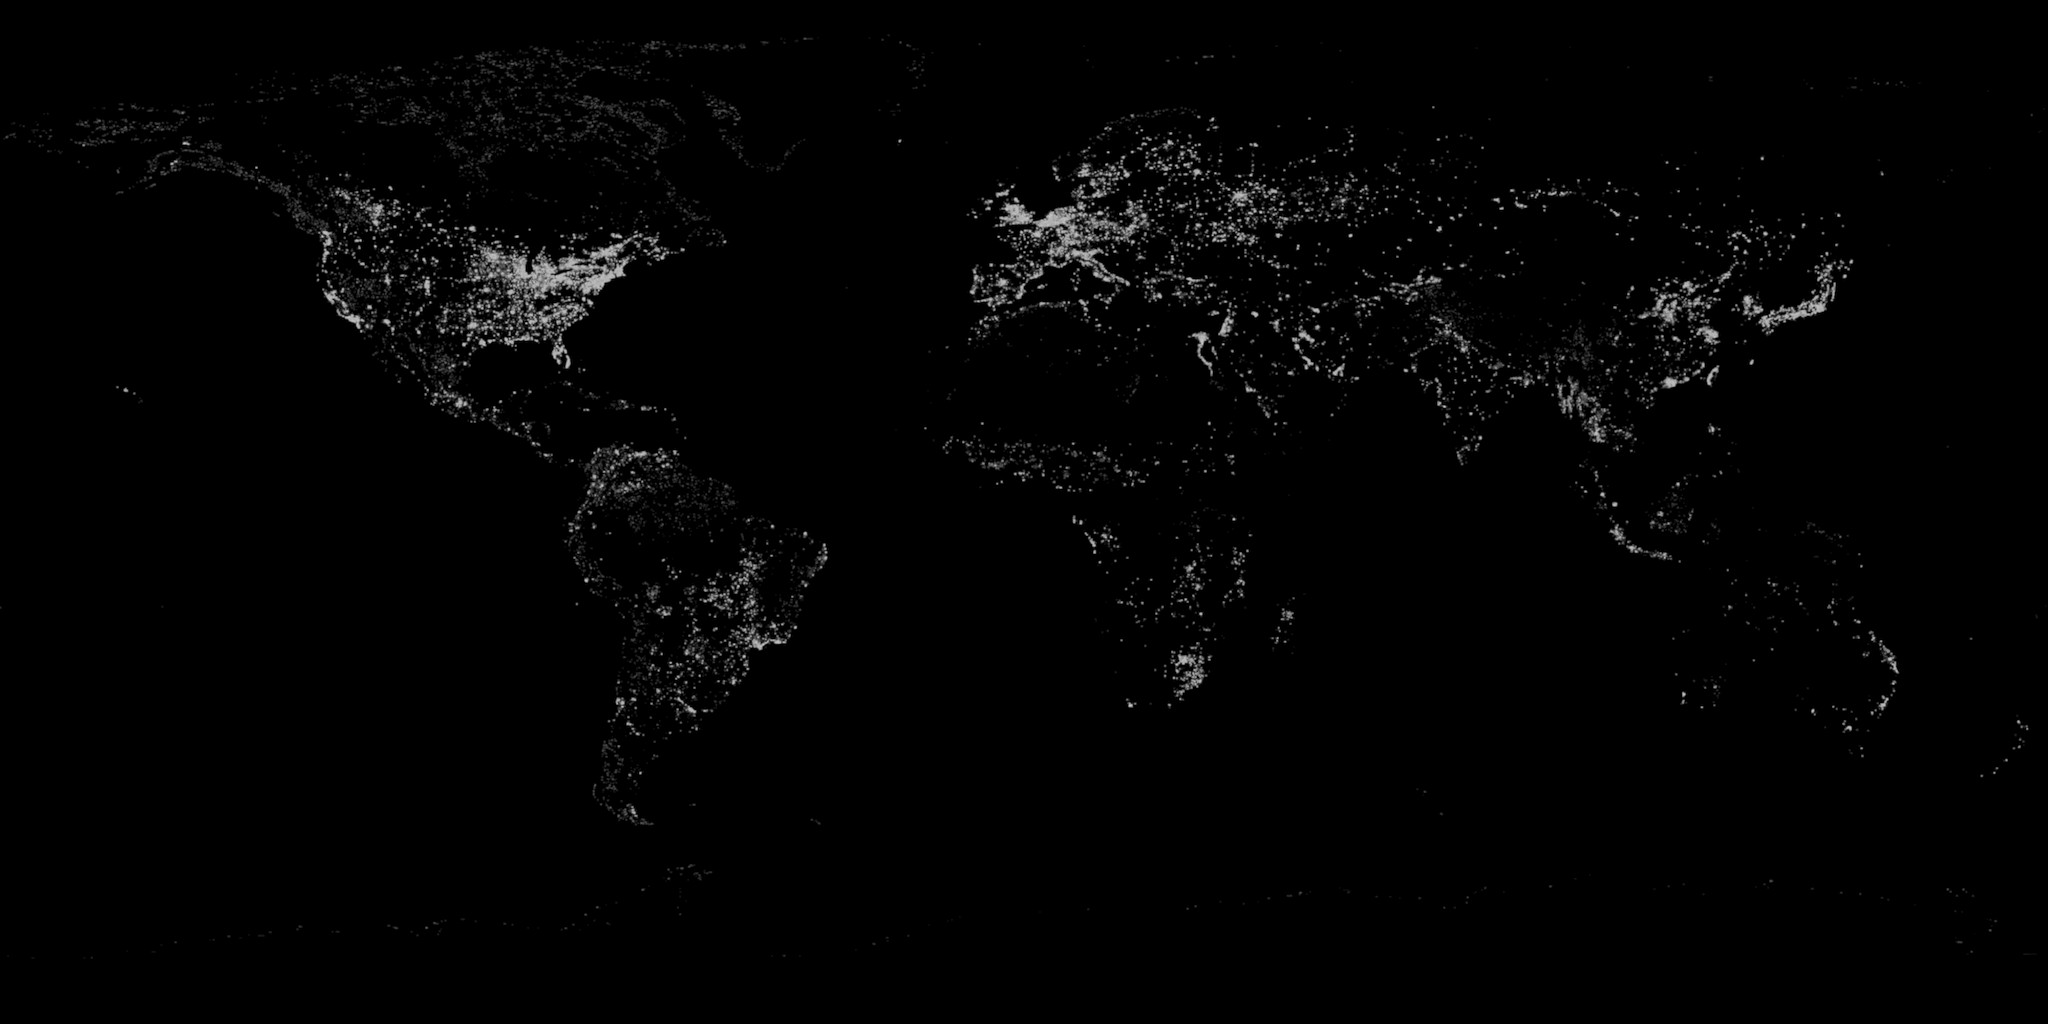
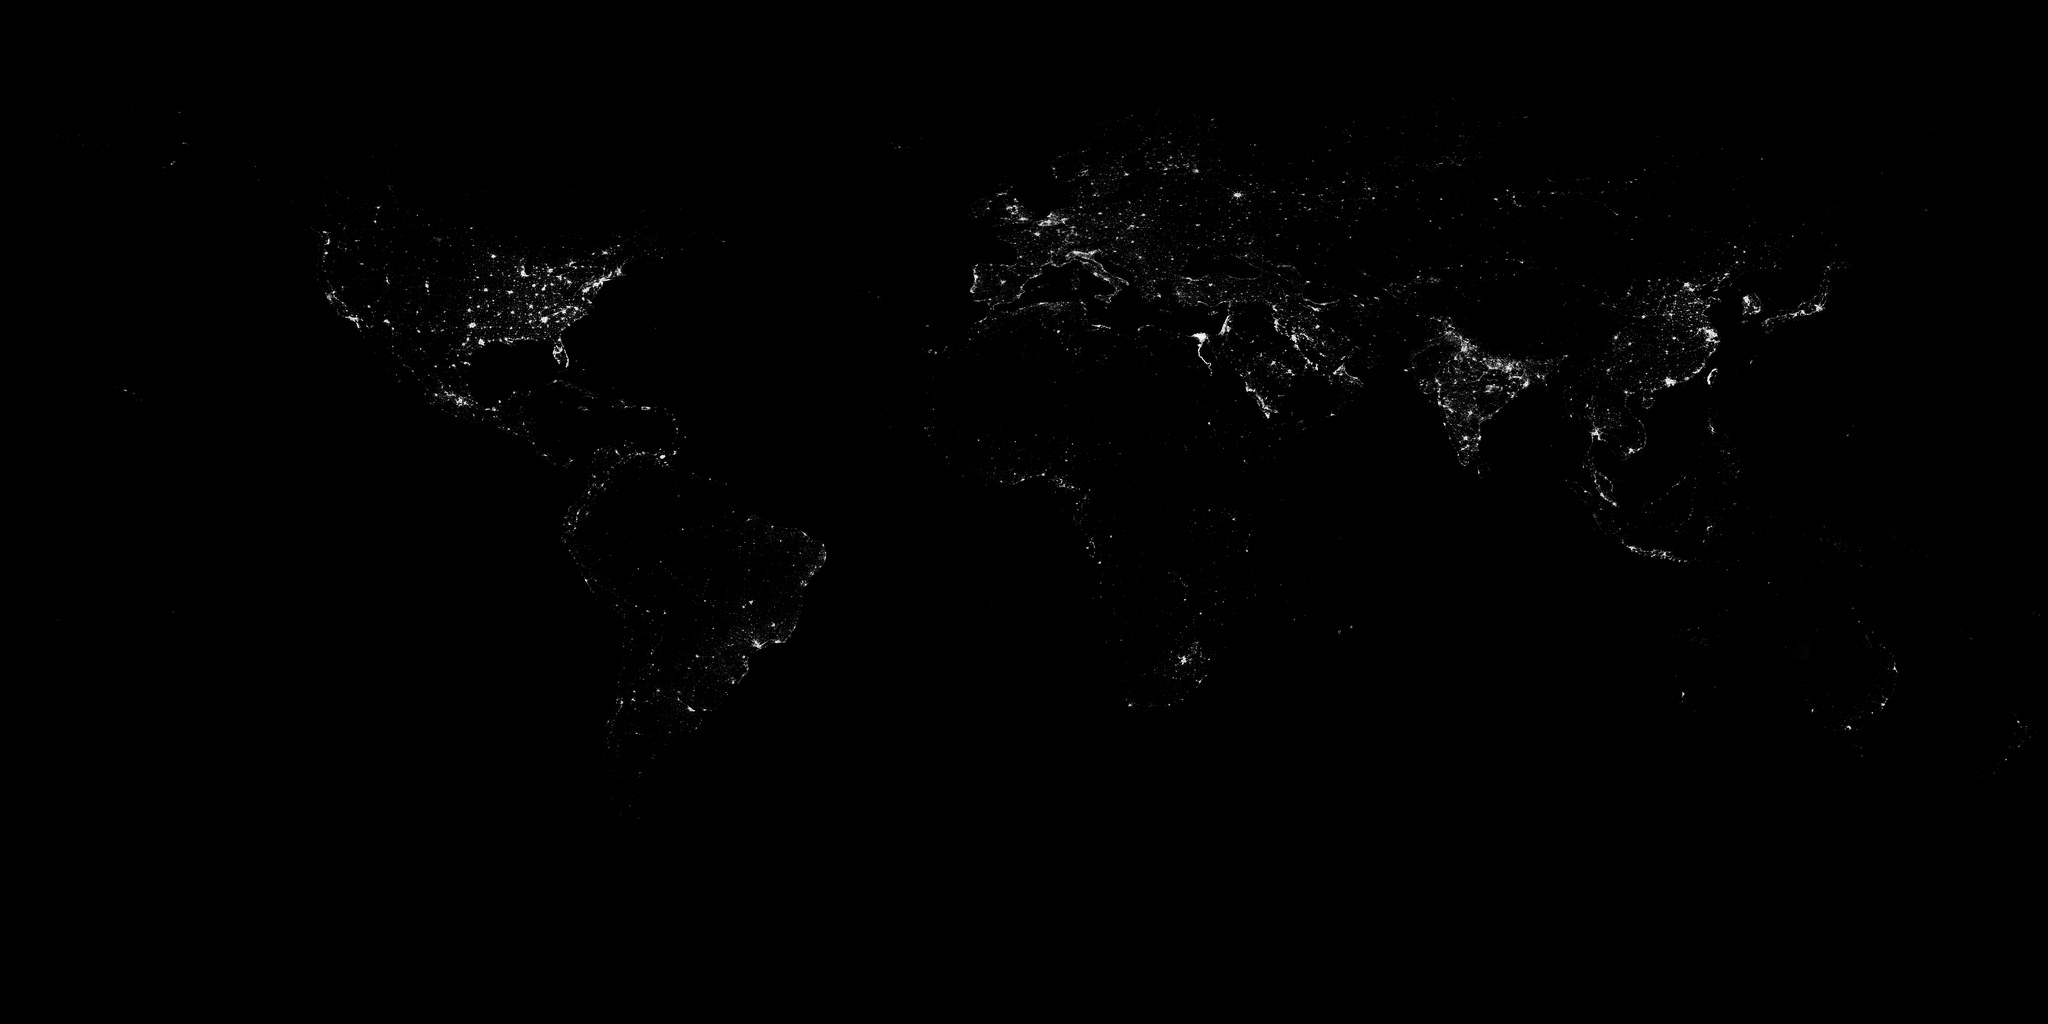
ให้ไฟเมืองบนลูกโลกมาจากภาพดาวเทียม NASA ปี 2016 ที่ละเอียดถึงระดับเห็นถนน
ภาพไฟเมืองเดิมเป็นข้อมูลปี 2012 ความละเอียด 4K ที่ส่งต่อกันมา ซูมใกล้แล้วไฟเป็นปื้นจ้าก้อนเดียว
ตอนนี้ใช้ NASA Black Marble 2016 (VIIRS) ต้นฉบับ 13,500×6,750 พิกเซล ทำเป็น 2K · 4K · 8K
เมืองแยกเป็นดวง เห็นใยแสงของถนนที่เชื่อมเมือง และความสว่างไล่ระดับจากชานเมืองถึงใจกลาง

- scripts/build_earth_lights_2016.py แยกเฉพาะแสงไฟออกจากพื้นแผ่นดินสีน้ำเงินของภาพต้นฉบับ
- ภาพไฟขาวดำเบามาก (4K ราว 0.3 MB · 8K ราว 1 MB) จึงโหลดทันทีหลังภาพแรก ไม่ต้องรอซูม
  8K ใช้เฉพาะเครื่องที่รับภาพ 8192 ได้และไม่ใช่เครื่องสเปกเบา ภาพกลางวันและเมฆ 4K ยังรอซูมเหมือนเดิม
- เอาเม็ดสังเคราะห์ที่เคยใส่แทนรายละเอียดออก เพราะข้อมูลจริงละเอียดพอแล้ว
- แสงฟุ้งวงกว้างจางลงตอนซูมใกล้ ไฟจึงคมไม่เป็นก้อนเบลอ

Claude-Session: https://claude.ai/code/session_01C6X28FpaYoiheL69ujevP1

diff --git a/static/cockpit_earth.js b/static/cockpit_earth.js
@@ -101,8 +101,7 @@
     '    float mag=1.-smoothstep(.3,1.,(-b-sqrt(disc))*pix*326.);',
     '    vec2 hp=px*1.3*mag;',
     '    float L=(texture2D(lights,tc+hp).r+texture2D(lights,tc-hp).r+texture2D(lights,tc+hp*vec2(1.,-1.)).r+texture2D(lights,tc+hp*vec2(-1.,1.)).r)*.25;',
-    '    float gr=vn(tc*vec2(9000.,4500.))*vn(tc*vec2(3100.,1550.)+7.);',
-    '    L*=mix(1.,.75+1.1*gr,mag*.6);',
+    // (เดิมมีเม็ดสังเคราะห์แทนรายละเอียด — ภาพ NASA 2016 ละเอียดพอแล้ว เม็ดกลับเป็นลายตารางตอนซูมใกล้ จึงเอาออก)
     '    float B=(texture2D(lights,tc+px*vec2(5.,0.)).r+texture2D(lights,tc-px*vec2(5.,0.)).r+texture2D(lights,tc+px*vec2(0.,4.)).r+texture2D(lights,tc-px*vec2(0.,4.)).r)*.25;',
     '    vec2 cc=tc+vec2(t*.0004,0.);',
     '    float cl=(texture2D(clouds,cc+hp).r+texture2D(clouds,cc-hp).r+texture2D(clouds,cc+hp*vec2(1.,-1.)).r+texture2D(clouds,cc+hp*vec2(-1.,1.)).r)*.25;',
@@ -129,7 +128,7 @@
     '    }',
     '    float W=(texture2D(lights,tc+px*vec2(14.,0.)).r+texture2D(lights,tc-px*vec2(14.,0.)).r+texture2D(lights,tc+px*vec2(0.,10.)).r+texture2D(lights,tc-px*vec2(0.,10.)).r)*.25;',   // แสงฟุ้งวงกว้างรอบเมืองใหญ่ (ภาพถ่ายจากสถานีอวกาศเห็นเมืองเป็นดวงไฟมีรัศมี)
     '    vec3 sodium=vec3(1.,.55,.16),core=vec3(1.,.86,.62),led=vec3(.86,.9,1.);',   // ชานเมือง = ไฟถนนโซเดียมสีส้ม · ใจกลางเมือง = ขาวอุ่น · จุดสว่างจัด = LED ขาวอมฟ้า (ตามภาพถ่ายจริงจาก ISS)
-    '    vec3 city=mix(sodium,core,smoothstep(.25,.75,L))*pow(L,1.15)*3.4+mix(core,led,smoothstep(.75,1.,L))*pow(L,3.)*1.9+vec3(1.,.5,.15)*(pow(B,1.4)*.8+pow(W,1.6)*.55);',
+    '    vec3 city=mix(sodium,core,smoothstep(.25,.75,L))*pow(L,1.15)*3.4+mix(core,led,smoothstep(.75,1.,L))*pow(L,3.)*1.9+vec3(1.,.5,.15)*(pow(B,1.4)*.8+pow(W,1.6)*.55)*(1.-.6*mag);',
     '    city*=(1.-.45*cl)*(1.-.85*wm);',                                              // ไฟเรือ/แท่นเจาะยังเห็นจางๆ
     '    vec3 surf=(baseC+vec3(.55,.62,.85)*pow(cl,1.4)*.16)*mix(1.,.42,sunM)+city*ready;',   // ในยาน: กลางคืนมืดตามจริง ไฟเมืองเท่าเดิม
     '    surf+=(vec3(.18,.35,1.)*pow(1.-zz,2.6)*.35+vec3(.35,.55,1.)*pow(1.-zz,9.)*.6)*(1.-.85*sunM);', // ฟ้าหลัวตามความหนาของบรรยากาศที่มองผ่าน (ในยาน: กลางคืนไม่มีฟ้าหลัวสีฟ้า)
@@ -213,19 +212,23 @@
   }
   var conn = navigator.connection || {};
   var can4k = gl.getParameter(gl.MAX_TEXTURE_SIZE) >= 4096 && !conn.saveData;
+  var can8k = gl.getParameter(gl.MAX_TEXTURE_SIZE) >= 8192 && !conn.saveData;
   // มือถือ/เครื่องแรมน้อย/เน็ตช้า: ภาพ 4K (ราว 2.6 MB) ยังไม่โหลดจนกว่าจะซูมเข้าไปดูจริง — ทั้งโลกภาพ 2K ก็คมพอบนจอเล็ก
   var light = Math.min(screen.width, screen.height) < 700 || (navigator.deviceMemory || 8) <= 4 || /2g|3g/.test(conn.effectiveType || '');
   var got4k = false, firstIn = false;
   function maybe4k() {
     if (got4k || !firstIn || !can4k || (light && S.tL < 2 && !SHIP.on)) return;
     got4k = true;
-    load(0, 'lights_4k.jpg'); load(1, 'day_4k.jpg'); load(2, 'clouds_4k.jpg');      // 4K หลังภาพแรกขึ้นแล้ว — เน็ตช้าไม่ต้องรอ
+    // ไฟเมือง 8K (NASA Black Marble 2016 · เห็นถนนเป็นใยแสง) เฉพาะเครื่องที่รับภาพ 8192 ได้และไม่ใช่เครื่องเบา — ไฟล์ราว 1 MB เพราะเป็นภาพขาวดำ
+    load(1, 'day_4k.jpg'); load(2, 'clouds_4k.jpg');      // 4K หลังภาพแรกขึ้นแล้ว — เน็ตช้าไม่ต้องรอ
   }
   function firstDone() {
     if (--pending > 0) return;
     wrap.classList.add('lit');
     load(3, 'water.png', function () { hasW = 1; });
     firstIn = true;
+    // ไฟเมืองละเอียดโหลดทันที ไม่ต้องรอซูม: ภาพขาวดำเล็กมาก (4K ราว 0.3 MB · 8K ราว 1 MB) แต่ทำให้เมืองแยกเป็นดวงและเห็นถนน
+    if (can4k) load(0, can8k && !light ? 'lights_8k.jpg' : 'lights_4k.jpg');
     maybe4k();
     safeArrive();
   }

diff --git a/scripts/build_earth_lights_2016.py b/scripts/build_earth_lights_2016.py
@@ -1,0 +1,39 @@
+"""สร้างภาพไฟเมืองจาก NASA Black Marble 2016 (VIIRS Day/Night Band) — 2K · 4K · 8K
+
+ต้นฉบับ (สาธารณสมบัติ, NASA Earth Observatory · ภาพ 144898):
+  https://assets.science.nasa.gov/content/dam/science/esd/eo/images/imagerecords/144000/144898/BlackMarble_2016_3km.jpg
+  13500×6750 พิกเซล ≈ 3 กม./พิกเซล — เห็นเส้นถนนที่เชื่อมเมืองเป็นใยแสง (ภาพเดิมของ three-globe เป็นข้อมูลปี 2012 ที่ละเอียดน้อยกว่า)
+
+ภาพต้นฉบับมีพื้นแผ่นดิน/น้ำแข็งสีน้ำเงินอมม่วงอยู่ใต้แสงไฟ — แยกเฉพาะแสงไฟด้วย (R − 0.65·B) / 0.5
+  · พื้นหลังสีน้ำเงิน R น้อยกว่า 0.65·B เสมอ → 0
+  · ไฟเหลือง/ขาว R สูง → สว่าง · หาร 0.5 (ไม่ใช่ 0.35) เพื่อให้ใจกลางเมืองยังไล่ระดับความสว่างได้ ไม่ขาวจ้าเท่ากันหมด
+
+ใช้:  python scripts/build_earth_lights_2016.py <ไฟล์ BlackMarble_2016_3km.jpg>
+"""
+import os
+import sys
+
+from PIL import Image
+
+Image.MAX_IMAGE_PIXELS = None
+ROOT = os.path.dirname(os.path.dirname(os.path.abspath(__file__)))
+OUT = os.path.join(ROOT, "static", "earth")
+SIZES = {"lights.jpg": 2048, "lights_4k.jpg": 4096, "lights_8k.jpg": 8192}
+
+
+def extract(src):
+    r, _g, b = Image.open(src).convert("RGB").split()
+    lut_b = [int(v * 0.65) for v in range(256)]
+    from PIL import ImageChops
+    return ImageChops.subtract(r, b.point(lut_b), scale=0.5)
+
+
+def main(src):
+    lit = extract(src)
+    for name, w in SIZES.items():
+        lit.resize((w, w // 2), Image.LANCZOS).save(os.path.join(OUT, name), quality=88, optimize=True, progressive=True)
+        print(name, os.path.getsize(os.path.join(OUT, name)) // 1024, "KB")
+
+
+if __name__ == "__main__":
+    main(sys.argv[1])

diff --git a/tests/test_universe_showcase.py b/tests/test_universe_showcase.py
@@ -99,4 +99,8 @@ def test_phone_does_not_download_4k_until_zoom():
     """มือถือเคยโหลดภาพ 4K ทั้งสามภาพ (~2.6 MB) ทันทีที่เปิดหน้า แม้ไม่ได้ซูม"""
     js = open("static/cockpit_earth.js", encoding="utf-8").read()
     assert "light && S.tL < 2" in js and "maybe4k();" in js           # tL ≥ 2 = ซูมลงใกล้กว่าวงโคจร 2 เท่า
-    assert js.count("load(0, 'lights_4k.jpg')") == 1      # โหลดได้ที่เดียว ผ่าน maybe4k
+    # ภาพกลางวัน/เมฆ 4K (ก้อนใหญ่) ยังรอซูมเหมือนเดิม · ไฟเมืองละเอียด (ภาพขาวดำ ~0.3 MB) โหลดทันทีที่เดียว
+    assert js.count("load(1, 'day_4k.jpg')") == 1 and "load(1, 'day_4k.jpg'); load(2, 'clouds_4k.jpg');" in js
+    assert js.count("'lights_4k.jpg'") == 1
+    import os
+    assert os.path.getsize("static/earth/lights_4k.jpg") < 500_000

diff --git a/tests/test_universe_city_lights.py b/tests/test_universe_city_lights.py
@@ -20,3 +20,15 @@ def test_overlay_does_not_bury_the_globe():
     rule = re.findall(r"\.galaxy-overlay\{background:[^}]*\}", html)[-1]
     alphas = [float(a) for a in re.findall(r"rgba\(\d+,\d+,\d+,\s*([\d.]+)\)", rule)]
     assert max(alphas) <= 0.45
+
+
+def test_lights_come_from_black_marble_2016_in_three_sizes():
+    """ไฟเมืองใช้ NASA Black Marble 2016 ทั้ง 2K · 4K · 8K และ 8K โหลดเฉพาะเครื่องที่รองรับ"""
+    from PIL import Image
+    Image.MAX_IMAGE_PIXELS = None
+    for name, w in (("lights.jpg", 2048), ("lights_4k.jpg", 4096), ("lights_8k.jpg", 8192)):
+        im = Image.open(Path("static/earth") / name)
+        assert im.size == (w, w // 2) and im.mode == "L"
+    js = Path("static/cockpit_earth.js").read_text(encoding="utf-8")
+    assert "can8k" in js and "lights_8k.jpg" in js
+    assert "BlackMarble_2016" in Path("scripts/build_earth_lights_2016.py").read_text(encoding="utf-8")

diff --git a/static/earth/README.md b/static/earth/README.md
@@ -5,7 +5,7 @@
 | ไฟล์ | ขนาด | ที่มา |
 |---|---|---|
 | `day.jpg` | 2048×1024 | NASA Blue Marble (พื้นผิวโลกตอนกลางวัน) |
-| `lights.jpg` | 2048×1024 | NASA Earth at Night (Black Marble) — สกัดเฉพาะแสงเมือง เป็นภาพขาวดำ |
+| `lights.jpg` · `lights_4k.jpg` · `lights_8k.jpg` | 2048×1024 · 4096×2048 · 8192×4096 | NASA Black Marble 2016 (VIIRS, ภาพ 144898 ขนาด 13500×6750) — สกัดเฉพาะแสงเมืองเป็นภาพขาวดำด้วย `scripts/build_earth_lights_2016.py` · 8K โหลดเฉพาะเครื่องที่รองรับ |
 | `clouds.jpg` | 2048×1024 | ภาพเมฆทั้งโลก (ช่องความโปร่งใสของ `clouds.png`) |
 
 ภาพต้นฉบับมาจากโฟลเดอร์ตัวอย่างของแพ็กเกจ npm `three-globe` (`example/img/earth-blue-marble.jpg`,
@@ -19,7 +19,7 @@
 
 | ไฟล์ | ขนาด | ที่มา |
 |---|---|---|
-| `lights_4k.jpg` · `day_4k.jpg` · `clouds_4k.jpg` | 4096×2048 | ภาพ NASA เดิมจาก `three-globe` (MIT) ความละเอียดเต็ม — สร้างด้วย `scripts/build_earth_textures.py` |
+| `day_4k.jpg` · `clouds_4k.jpg` | 4096×2048 | ภาพ NASA เดิมจาก `three-globe` (MIT) ความละเอียดเต็ม — สร้างด้วย `scripts/build_earth_textures.py` |
 | `water.png` | 2048×1024 | แผนที่น้ำ (`three-globe` example/img/earth-water.png) — ใช้ทำประกายแสงจันทร์บนทะเล |
 | `capitals.json` | 241 เมือง | เมืองหลวงทุกประเทศ/ดินแดน จาก GeoNames (CC BY 4.0) ผ่านแพ็กเกจ `all-the-cities` (MIT) — รหัส PPLC |
 
